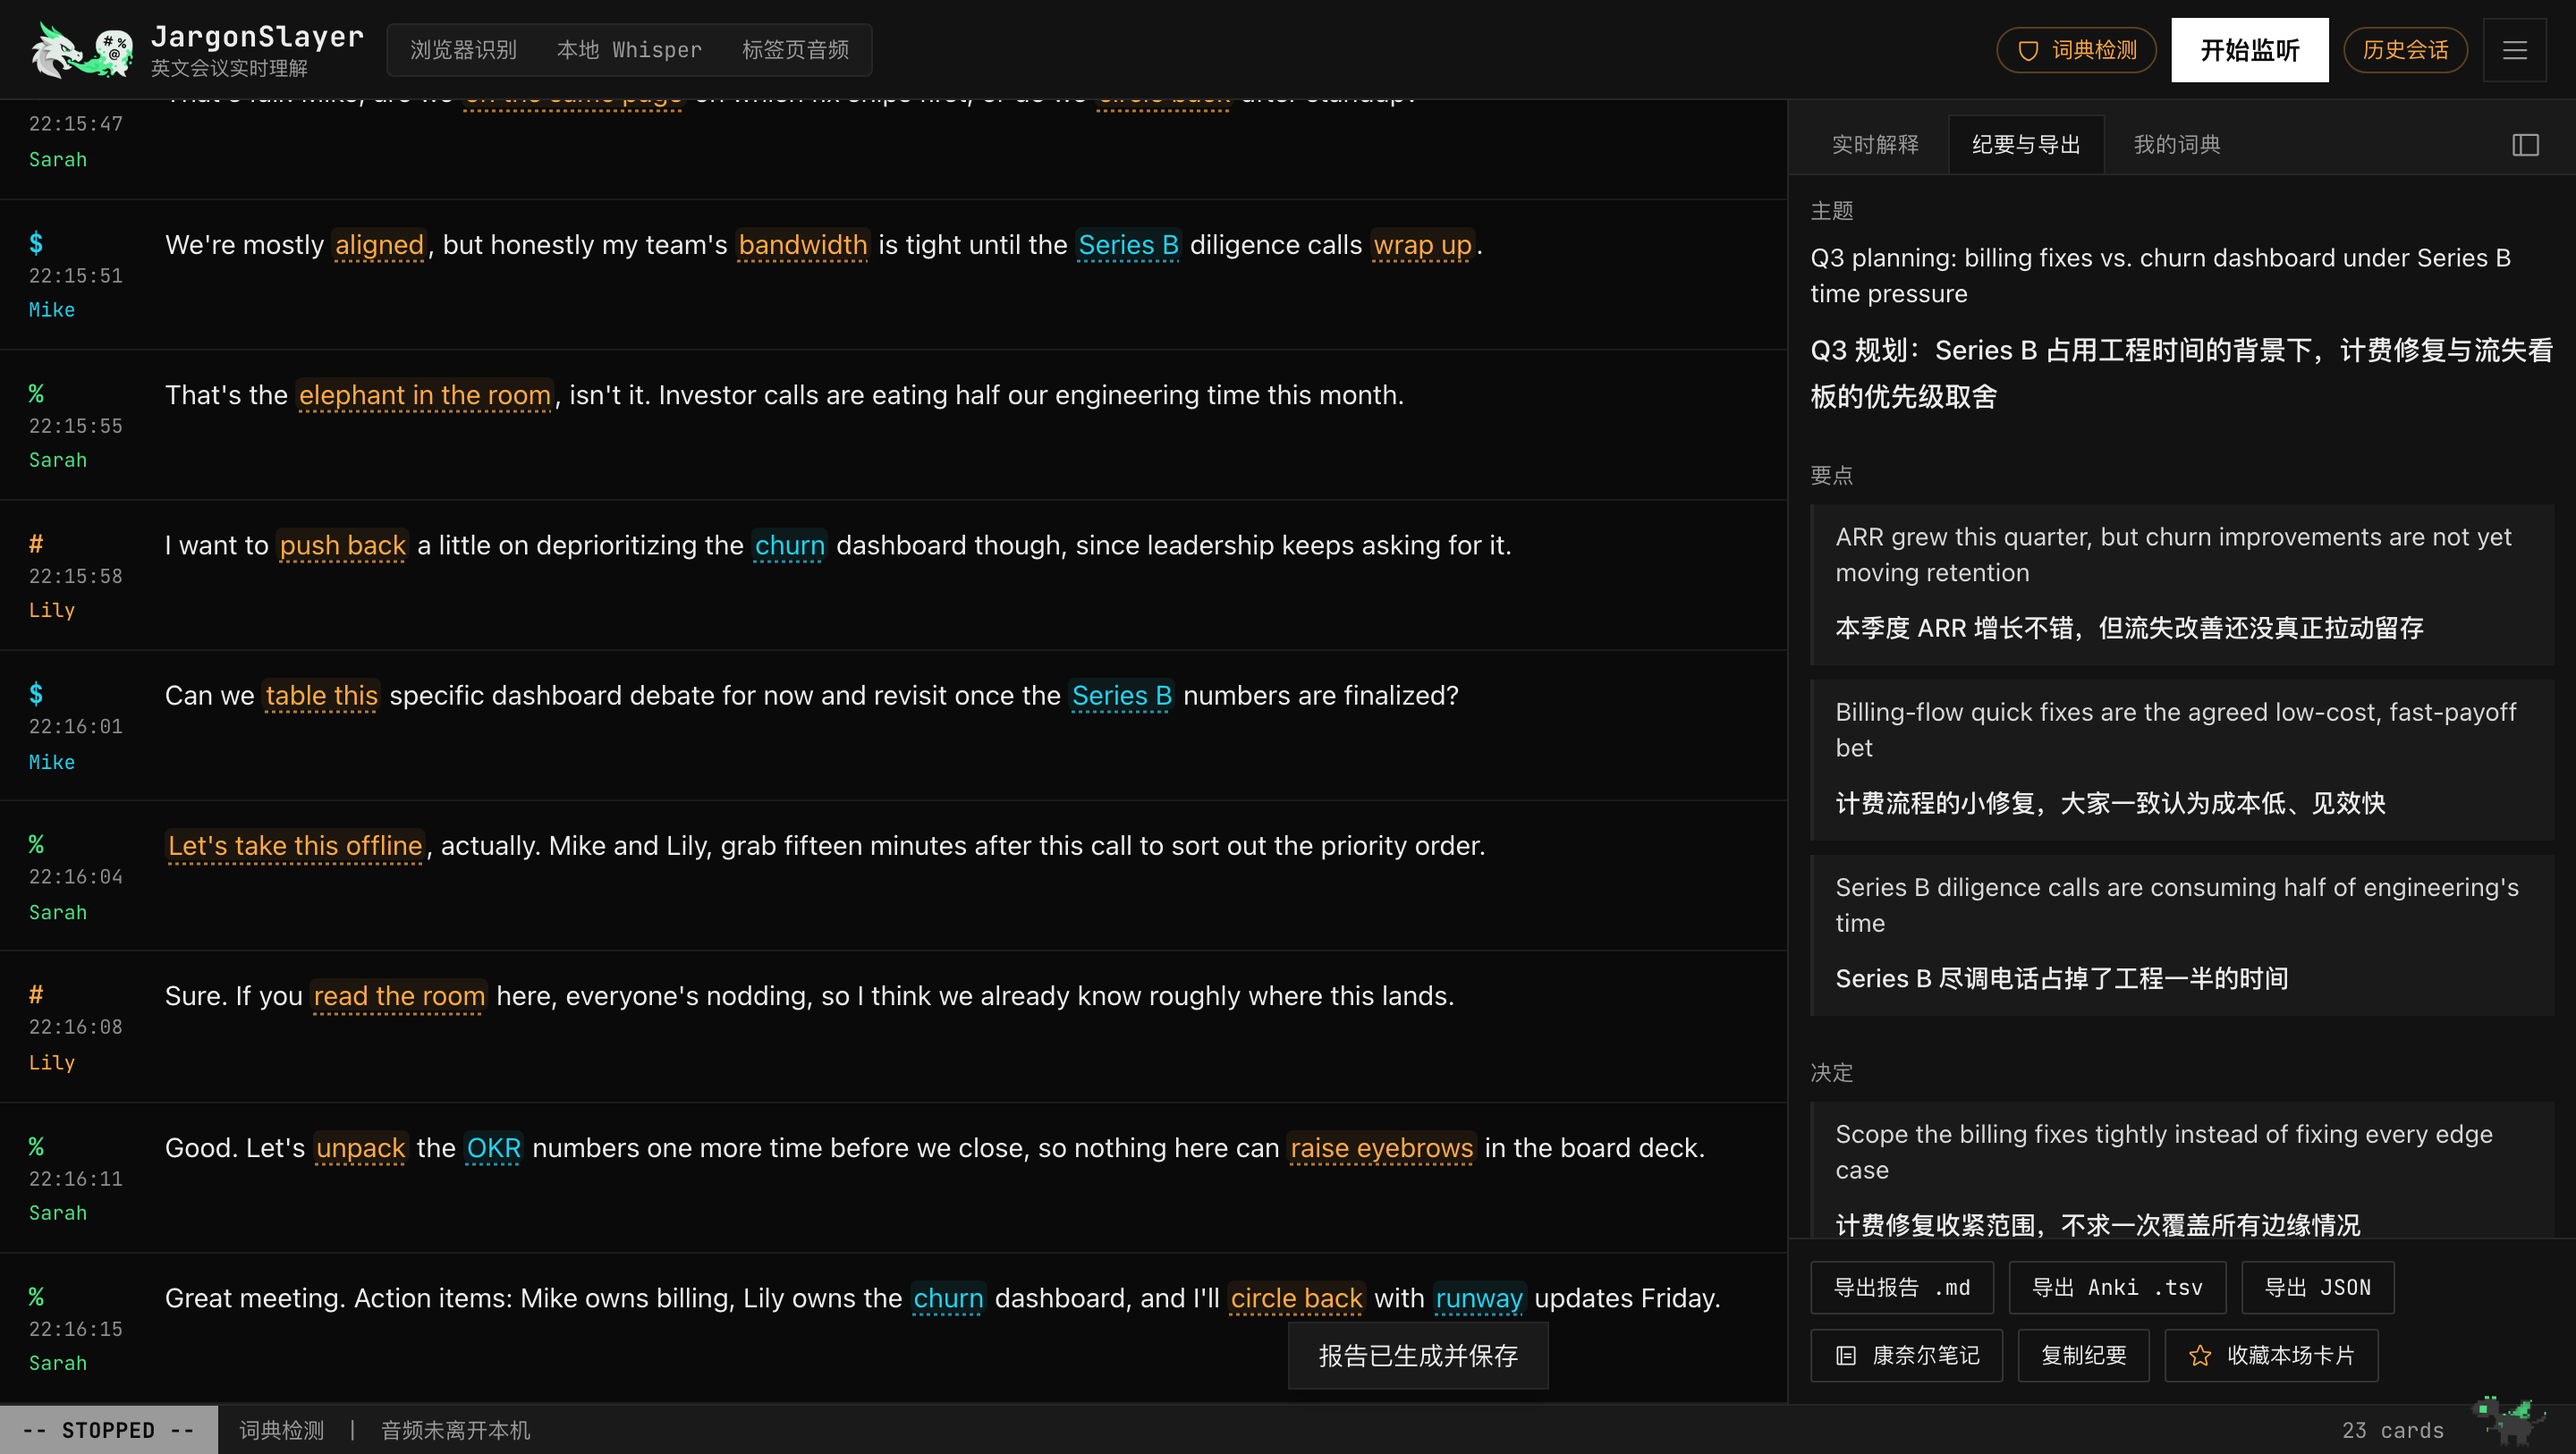
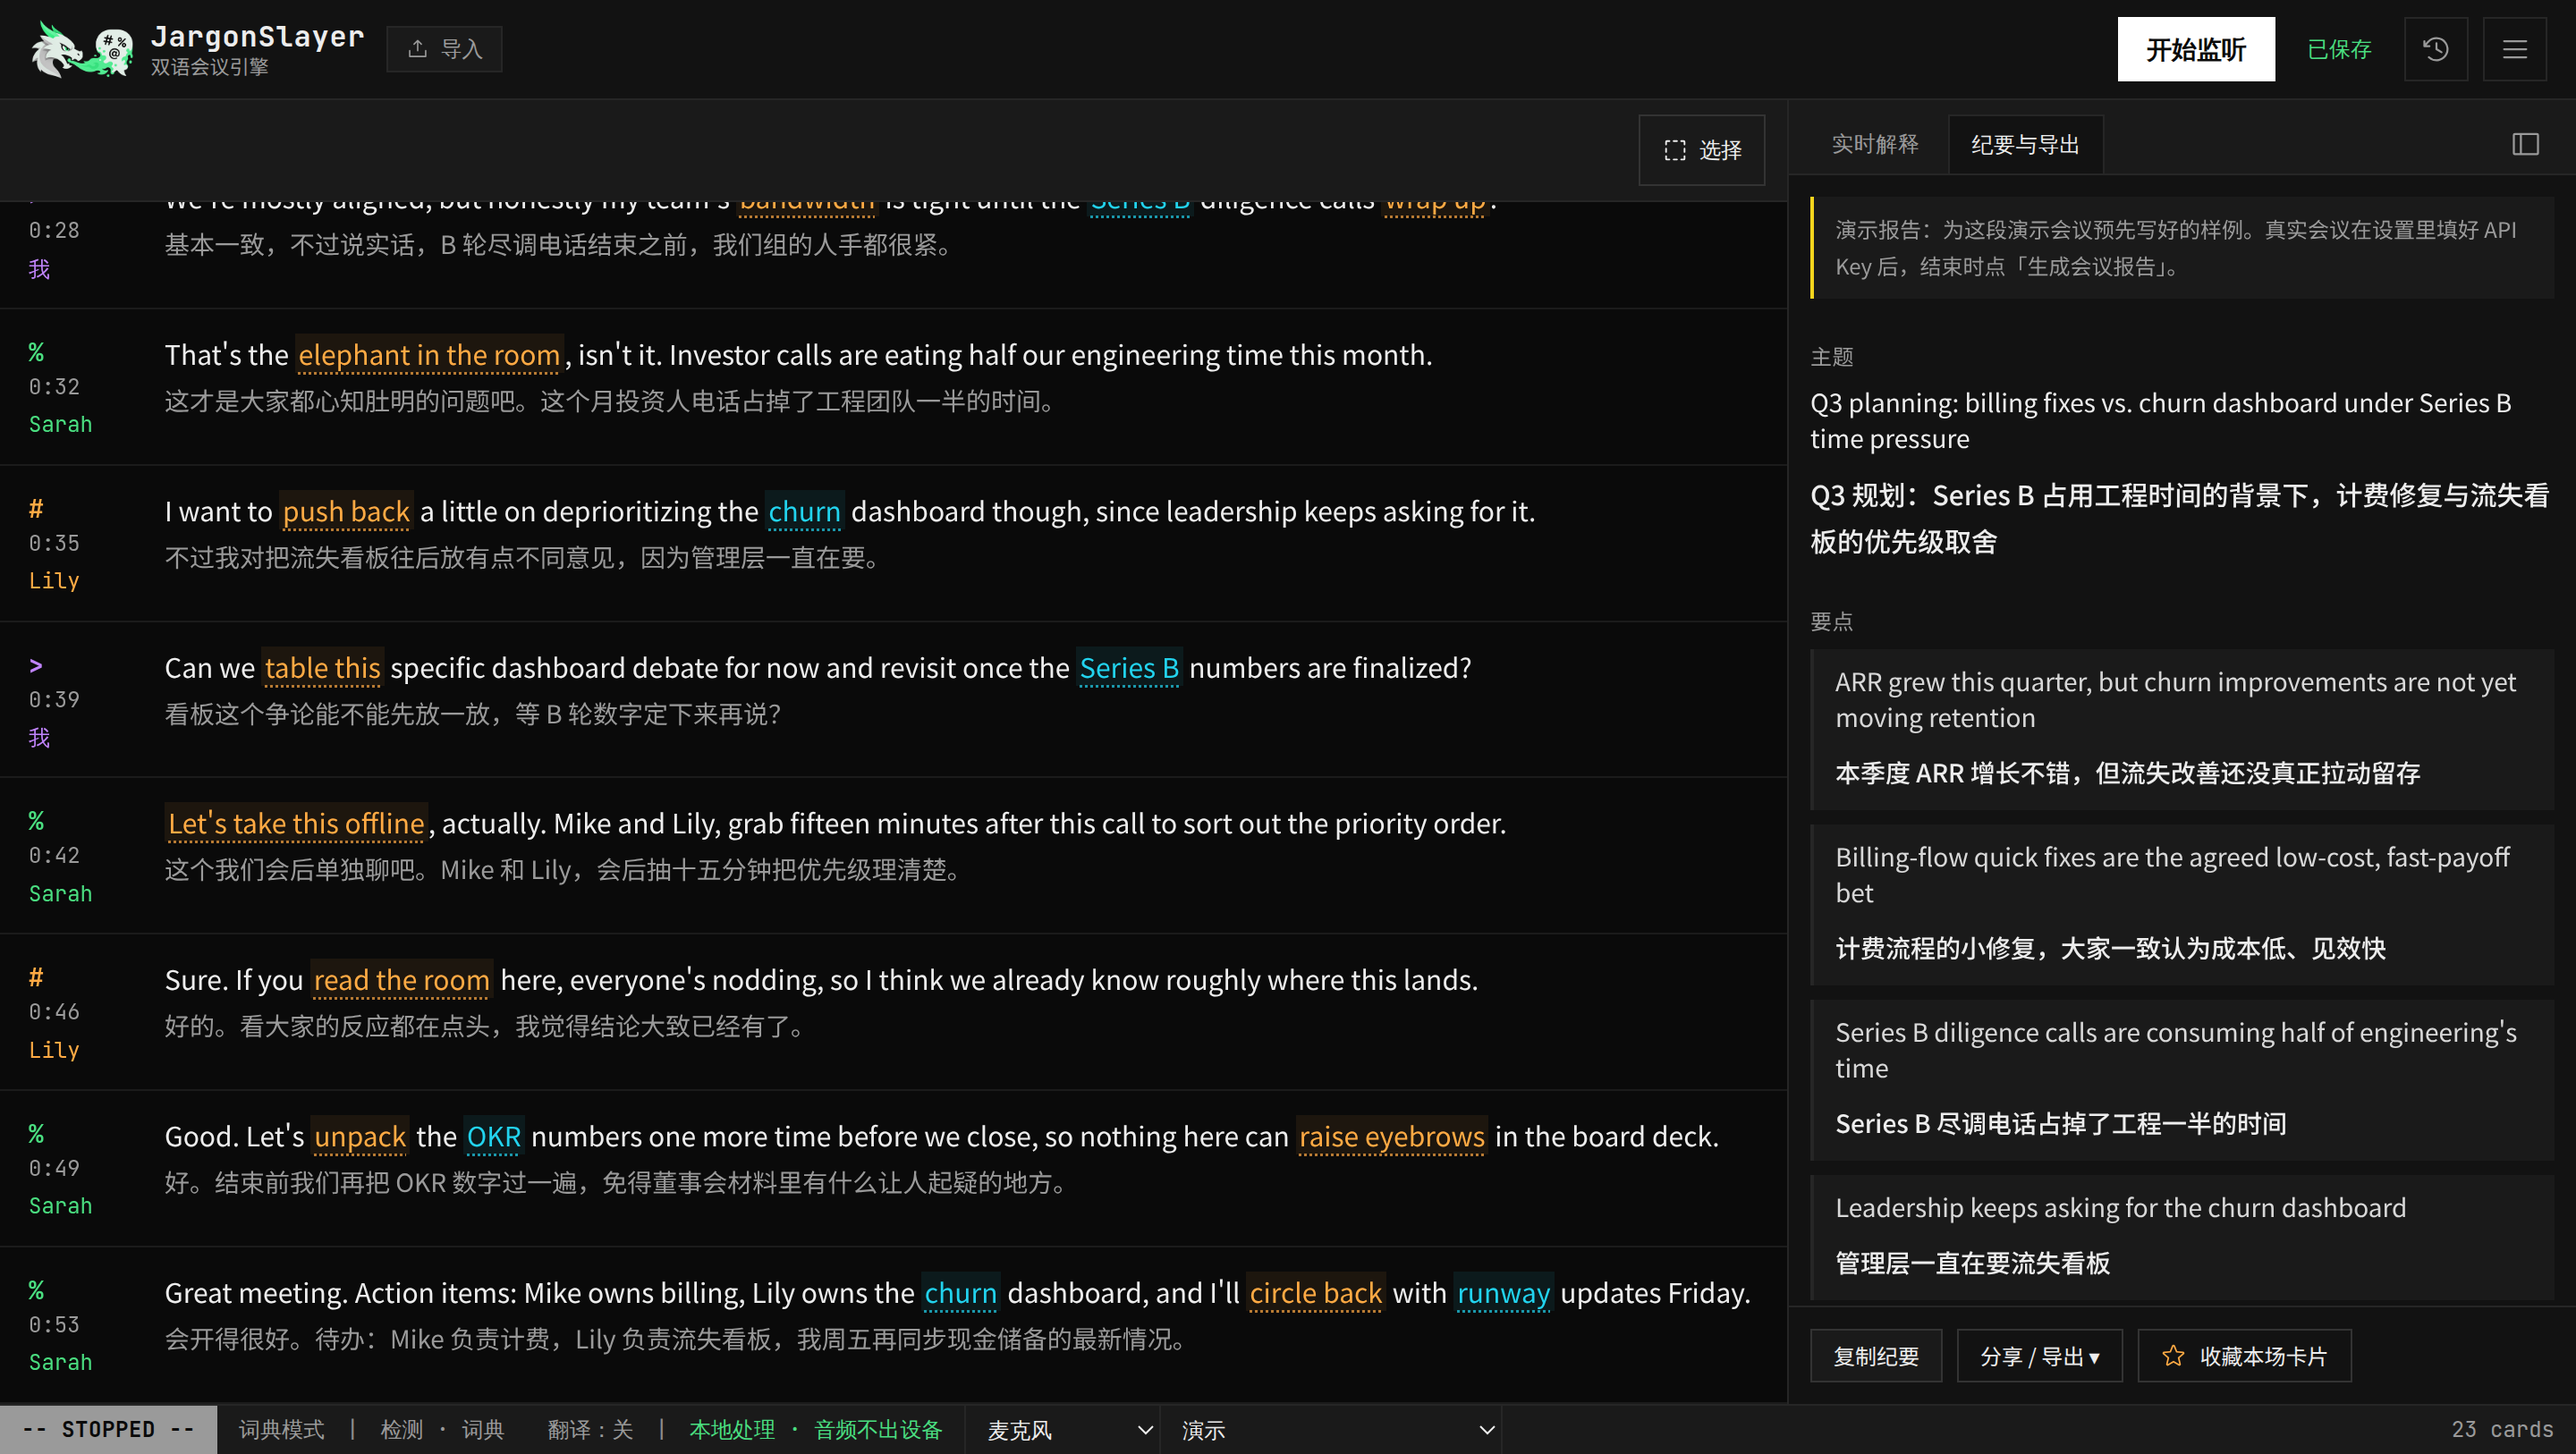
UI-3: README screenshots re-shot from the current build
The hero images predated the D6 repositioning: retired header engine pills, the old
「英文会议实时理解」 subtitle, 「词典检测」, and the retired mascot perch. All five page shots
(home, live, live-light, summary, review) are re-shot from a production build of this branch
at the same 2880x1626 size, so existing links keep working. The live view now shows the
bilingual transcript with 我 and named speakers, and the summary shot shows the demo's
labelled 演示报告. The README alt text describes the bilingual view in both languages.
bit.png is unchanged.

Claude-Session: https://claude.ai/code/session_01WarHjM5UJXfnmcD4wVtsdR

diff --git a/README.md b/README.md
@@ -19,7 +19,7 @@
 
 **English** · [简体中文](README.zh-CN.md) · [**Try It Live**](https://apps.bioinfospace.com/jargonslayer) · [**Website & Docs**](https://mianaz.github.io/jargonslayer/)
 
-<img src="assets/live.png" alt="JargonSlayer live meeting view: block-flow transcript with highlighted expressions on the left, real-time explanation cards on the right" width="920" />
+<img src="assets/live.png" alt="JargonSlayer live meeting view: bilingual block-flow transcript (English with its Chinese translation under each line, 我 for your own mic and named remote speakers) with highlighted expressions on the left, real-time explanation cards on the right" width="920" />
 
 </div>
 

diff --git a/README.zh-CN.md b/README.zh-CN.md
@@ -19,7 +19,7 @@
 
 **简体中文** · [English](README.md) · [**在线体验**](https://apps.bioinfospace.com/jargonslayer) · [**官网与文档**](https://mianaz.github.io/jargonslayer/)
 
-<img src="assets/live.png" alt="JargonSlayer 会议实时视图：左侧为分块转录流，高亮标注表达；右侧为实时释义卡片" width="920" />
+<img src="assets/live.png" alt="JargonSlayer 会议实时视图：左侧为分块双语转录流（每句英文下附中文翻译，「我」与各位说话人分开标注），高亮标注表达；右侧为实时释义卡片" width="920" />
 
 </div>
 
